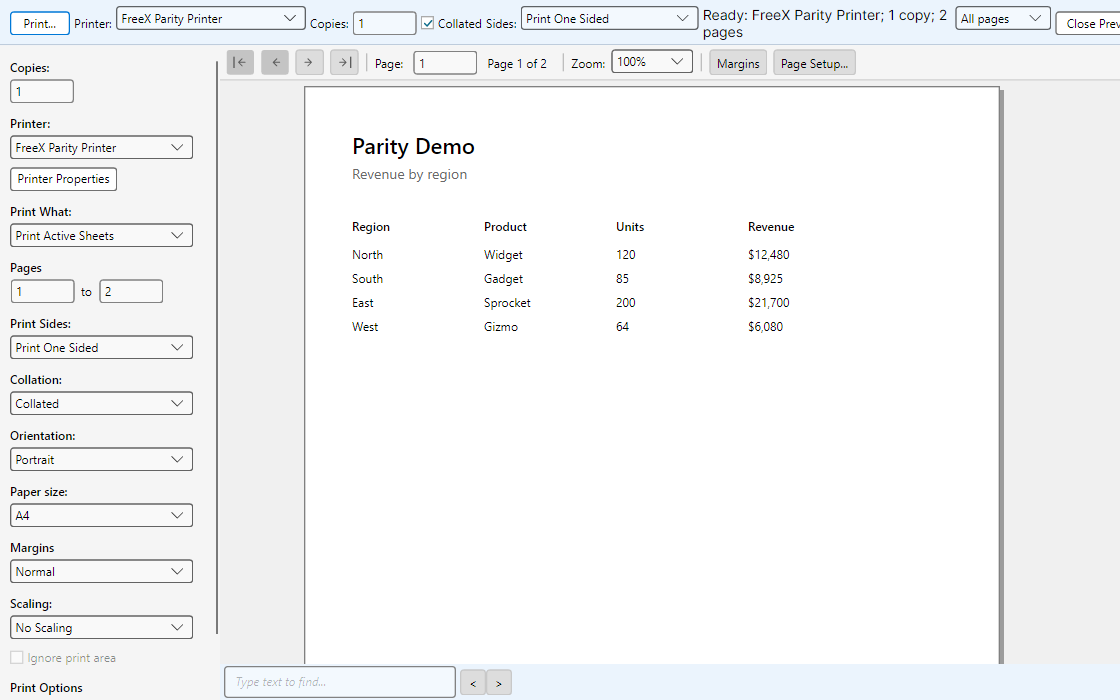
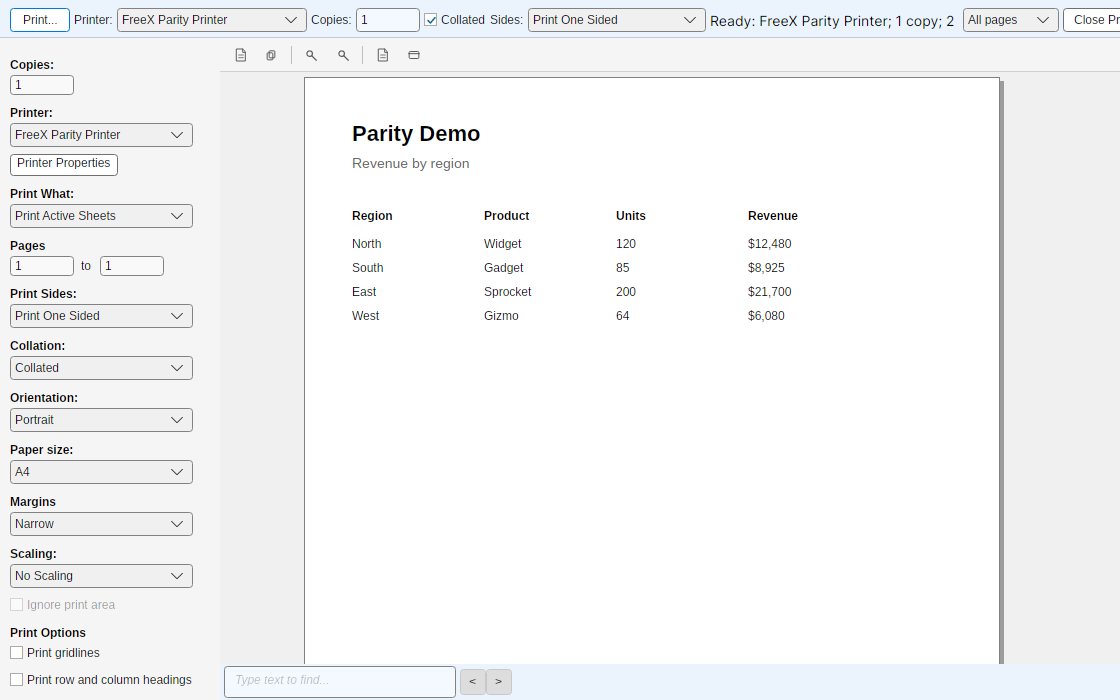
Align Avalonia Print Preview with WPF

diff --git a/src/FreeX.App.Avalonia/MainWindow.PrintPreview.cs b/src/FreeX.App.Avalonia/MainWindow.PrintPreview.cs
@@ -195,6 +195,7 @@ public sealed partial class MainWindow
             Margin = new Thickness(4, 0),
             VerticalContentAlignment = AvaloniaVerticalAlignment.Center,
         };
+        ApplyPreviewTextBoxChrome(pageNumberBox);
 
         var pageStatusText = new TextBlock
         {
@@ -204,7 +205,8 @@ public sealed partial class MainWindow
             VerticalAlignment = AvaloniaVerticalAlignment.Center,
             Margin = new Thickness(0, 0, 8, 0),
         };
-        AutomationProperties.SetAutomationId(pageStatusText, PrintPreviewDialogPlanner.PageLabelAutomationId);
+        AutomationProperties.SetAutomationId(pageNumberBox, PrintPreviewDialogPlanner.PageNumberBoxAutomationId);
+        AutomationProperties.SetAutomationId(pageStatusText, PrintPreviewDialogPlanner.PageStatusTextAutomationId);
 
         var firstButton = CreatePreviewToolbarButton(documentToolbarPlan.NavigationButtons[0]);
         var prevButton = CreatePreviewToolbarButton(documentToolbarPlan.NavigationButtons[1]);
@@ -335,8 +337,11 @@ public sealed partial class MainWindow
             PrintPreviewSurfacePlanner.CreateFindBarPlan(PrintPreviewSettingsTextResolver));
         var settingsRail = CreatePrintPreviewSettingsRail(
             PrintPreviewSurfacePlanner.CreateSettingsRailPlan(
-                _session.ActiveSheet,
-                pageCount,
+                // WPF's canonical parity dialog is constructed without a live sheet, so its rail
+                // starts from the shared default state (Narrow margins and 1..1 page fields). Keep
+                // normal production previews sheet-backed while making the shared fixture honest.
+                parityPages is null ? _session.ActiveSheet : null,
+                parityPages is null ? pageCount : 1,
                 printerName,
                 new PrintPreviewSettings(),
                 hasSelection: false,
@@ -432,7 +437,9 @@ public sealed partial class MainWindow
 
         return new Border
         {
+            Height = 38,
             MinHeight = 38,
+            MaxHeight = 38,
             Background = Brush(235, 244, 253),
             BorderBrush = Brush(190, 204, 220),
             BorderThickness = new Thickness(0, 0, 0, 1),
@@ -444,8 +451,8 @@ public sealed partial class MainWindow
     {
         var panel = new StackPanel
         {
-            Spacing = 8,
-            Margin = new Thickness(10),
+            Spacing = PrintPreviewSurfacePlanner.SettingsRailSpacing,
+            Margin = new Thickness(10, PrintPreviewSurfacePlanner.SettingsRailTopMargin, 10, 10),
             Children =
             {
                 CreateSettingsSection(plan.CopiesSectionText),
@@ -453,9 +460,9 @@ public sealed partial class MainWindow
                 {
                     Text = plan.CopiesText,
                     Width = plan.CopiesBoxWidth,
-                    Height = 24,
-                    MinHeight = 24,
-                    MaxHeight = 24,
+                    Height = PrintPreviewSurfacePlanner.SettingsTextBoxHeight,
+                    MinHeight = PrintPreviewSurfacePlanner.SettingsTextBoxHeight,
+                    MaxHeight = PrintPreviewSurfacePlanner.SettingsTextBoxHeight,
                     Padding = new Thickness(4, 1),
                     FontSize = 12,
                     FontFamily = FormulaBarFontFamily,
@@ -469,9 +476,9 @@ public sealed partial class MainWindow
                 new Button
                 {
                     Content = plan.PrinterPropertiesButtonText,
-                    Height = 24,
-                    MinHeight = 24,
-                    MaxHeight = 24,
+                    Height = PrintPreviewSurfacePlanner.SettingsButtonHeight,
+                    MinHeight = PrintPreviewSurfacePlanner.SettingsButtonHeight,
+                    MaxHeight = PrintPreviewSurfacePlanner.SettingsButtonHeight,
                     Padding = new Thickness(6, 1),
                     Background = Brushes.White,
                     BorderBrush = Brush(112, 112, 112),
@@ -522,9 +529,9 @@ public sealed partial class MainWindow
         {
             Text = plan.FromPageText,
             Width = plan.PageBoxWidth,
-            Height = 24,
-            MinHeight = 24,
-            MaxHeight = 24,
+            Height = PrintPreviewSurfacePlanner.SettingsTextBoxHeight,
+            MinHeight = PrintPreviewSurfacePlanner.SettingsTextBoxHeight,
+            MaxHeight = PrintPreviewSurfacePlanner.SettingsTextBoxHeight,
             Padding = new Thickness(4, 1),
             FontSize = 12,
             FontFamily = FormulaBarFontFamily,
@@ -537,9 +544,9 @@ public sealed partial class MainWindow
         {
             Text = plan.ToPageText,
             Width = plan.PageBoxWidth,
-            Height = 24,
-            MinHeight = 24,
-            MaxHeight = 24,
+            Height = PrintPreviewSurfacePlanner.SettingsTextBoxHeight,
+            MinHeight = PrintPreviewSurfacePlanner.SettingsTextBoxHeight,
+            MaxHeight = PrintPreviewSurfacePlanner.SettingsTextBoxHeight,
             Padding = new Thickness(4, 1),
             FontSize = 12,
             FontFamily = FormulaBarFontFamily,
@@ -622,49 +629,100 @@ public sealed partial class MainWindow
         TextBox pageNumberBox,
         TextBlock pageStatusText)
     {
+        var chrome = PrintPreviewSurfacePlanner.DocumentToolbarChrome;
         var toolbar = new StackPanel
         {
             Orientation = Orientation.Horizontal,
-            Spacing = 6,
-            Margin = new Thickness(6, 4),
+            Spacing = chrome.ButtonSpacing,
+            Margin = new Thickness(chrome.LeftPadding, 4, 0, 4),
+            Children =
+            {
+                CreateDocumentToolbarIcon(RibbonCommandIconKind.Print, "Print preview", chrome),
+                CreateDocumentToolbarIcon(RibbonCommandIconKind.Copy, "Copy", chrome),
+                CreateDocumentToolbarSeparator(chrome),
+                CreateDocumentToolbarIcon(RibbonCommandIconKind.Zoom, "Zoom in", chrome),
+                CreateDocumentToolbarIcon(RibbonCommandIconKind.Zoom, "Zoom out", chrome),
+                CreateDocumentToolbarSeparator(chrome),
+                CreateDocumentToolbarIcon(RibbonCommandIconKind.Page, "Fit page", chrome),
+                CreateDocumentToolbarIcon(RibbonCommandIconKind.View, "Fit width", chrome),
+            },
+        };
+
+        // Keep the planner-backed controls in the visual tree for keyboard navigation and automation.
+        // WPF's native DocumentViewer places these commands in its command surface rather than showing
+        // the textual controls here; the compact icon row above is the faithful Avalonia equivalent.
+        var functionalControls = new StackPanel
+        {
+            Orientation = Orientation.Horizontal,
+            IsVisible = false,
             Children =
             {
                 firstButton,
                 prevButton,
                 nextButton,
                 lastButton,
-                CreatePreviewToolbarSeparator(),
-                new TextBlock { Text = plan.PageLabelText, FontSize = 12, FontFamily = FormulaBarFontFamily, VerticalAlignment = AvaloniaVerticalAlignment.Center },
+                new TextBlock { Text = plan.PageLabelText },
                 pageNumberBox,
                 pageStatusText,
-                CreatePreviewToolbarSeparator(),
-                new TextBlock { Text = plan.ZoomLabelText, FontSize = 12, FontFamily = FormulaBarFontFamily, VerticalAlignment = AvaloniaVerticalAlignment.Center },
                 CreatePreviewZoomComboBox(plan),
-                CreatePreviewToolbarSeparator(),
                 CreatePreviewToolbarButton(plan.MarginsButtonText),
                 CreatePreviewToolbarButton(plan.PageSetupButtonText),
             },
         };
 
+        var content = new Grid
+        {
+            ColumnDefinitions = new ColumnDefinitions("*,0"),
+        };
+        content.Children.Add(toolbar);
+        Grid.SetColumn(functionalControls, 1);
+        content.Children.Add(functionalControls);
+
         return new Border
         {
-            MinHeight = 34,
+            Height = chrome.Height,
+            MinHeight = chrome.Height,
+            MaxHeight = chrome.Height,
             Background = Brush(245, 245, 245),
             BorderBrush = Brush(208, 208, 208),
             BorderThickness = new Thickness(0, 0, 0, 1),
-            Child = toolbar,
+            Child = content,
         };
     }
 
-    private static Border CreatePreviewToolbarSeparator() =>
+    private static Border CreateDocumentToolbarSeparator(PrintPreviewDocumentToolbarChromePlan chrome) =>
         new()
         {
             Width = 1,
-            Height = 18,
+            Height = chrome.SeparatorHeight,
             Background = Brush(190, 190, 190),
             Margin = new Thickness(1, 0),
             VerticalAlignment = AvaloniaVerticalAlignment.Center,
         };
+
+    private static Button CreateDocumentToolbarIcon(
+        RibbonCommandIconKind kind,
+        string toolTip,
+        PrintPreviewDocumentToolbarChromePlan chrome)
+    {
+        var button = new Button
+        {
+            Width = chrome.ButtonWidth,
+            MinWidth = chrome.ButtonWidth,
+            Height = chrome.ButtonHeight,
+            MinHeight = chrome.ButtonHeight,
+            MaxHeight = chrome.ButtonHeight,
+            Padding = new Thickness(4, 2),
+            Background = Brushes.Transparent,
+            BorderBrush = Brushes.Transparent,
+            BorderThickness = new Thickness(1),
+            HorizontalContentAlignment = AvaloniaHorizontalAlignment.Center,
+            VerticalContentAlignment = AvaloniaVerticalAlignment.Center,
+            Content = AvaloniaRibbonIcons.BuildMonochrome(kind, chrome.IconSize, null, Brush(92, 92, 92)),
+        };
+        ToolTip.SetTip(button, toolTip);
+        return button;
+    }
 
     private static Button CreatePreviewToolbarButton(string text) =>
         ApplyPreviewToolbarButtonChrome(new Button { Content = text }, 26);
@@ -712,7 +770,7 @@ public sealed partial class MainWindow
     }
 
     private static ComboBox CreatePreviewComboBox(double width, string selectedText) =>
-        new()
+        ApplyPreviewComboBoxChrome(new()
         {
             Width = width,
             Height = 24,
@@ -724,7 +782,7 @@ public sealed partial class MainWindow
             VerticalContentAlignment = AvaloniaVerticalAlignment.Center,
             ItemsSource = new[] { selectedText },
             SelectedIndex = 0,
-        };
+        });
 
     private static ComboBox CreatePreviewChoiceComboBox<TValue>(
         double width,
@@ -752,7 +810,7 @@ public sealed partial class MainWindow
             plan.ZoomSelectedIndex);
 
     private static ComboBox CreatePreviewComboBox(double width, IReadOnlyList<object> items, int selectedIndex) =>
-        new()
+        ApplyPreviewComboBoxChrome(new()
         {
             Width = width,
             Height = 24,
@@ -764,7 +822,19 @@ public sealed partial class MainWindow
             VerticalContentAlignment = AvaloniaVerticalAlignment.Center,
             ItemsSource = items,
             SelectedIndex = selectedIndex,
-        };
+        });
+
+    private static TextBox ApplyPreviewTextBoxChrome(TextBox textBox)
+    {
+        AvaloniaCompactDialogChrome.ApplyTextBox(textBox, PrintPreviewChromeStyle);
+        return textBox;
+    }
+
+    private static ComboBox ApplyPreviewComboBoxChrome(ComboBox comboBox)
+    {
+        AvaloniaCompactDialogChrome.ApplyComboBox(comboBox, PrintPreviewChromeStyle);
+        return comboBox;
+    }
 
     private static Control BuildPreviewDocumentViewerSurface(
         PrintPreviewPaginationContext context,

diff --git a/src/FreeX.App.Presentation/PageLayout/PrintPreviewSurfacePlanner.cs b/src/FreeX.App.Presentation/PageLayout/PrintPreviewSurfacePlanner.cs
@@ -39,6 +39,15 @@ public sealed record PrintPreviewDocumentToolbarPlan(
     string MarginsButtonText,
     string PageSetupButtonText);
 
+public sealed record PrintPreviewDocumentToolbarChromePlan(
+    double Height,
+    double ButtonWidth,
+    double ButtonHeight,
+    double IconSize,
+    double LeftPadding,
+    double ButtonSpacing,
+    double SeparatorHeight);
+
 public sealed record PrintPreviewFindBarPlan(
     string PlaceholderText,
     string PreviousButtonText,
@@ -86,6 +95,23 @@ public static class PrintPreviewSurfacePlanner
     public const double SettingsCopiesBoxWidth = 60;
     public const double SettingsPageRangeBoxWidth = 44;
     public const double DocumentZoomComboWidth = 82;
+    public const double SettingsTextBoxHeight = 20;
+    public const double SettingsButtonHeight = 22;
+    public const double SettingsRailTopMargin = 16;
+    public const double SettingsRailSpacing = 7;
+
+    // WPF's DocumentViewer contributes a compact icon-only toolbar between the print controls and
+    // the paper. Keep these metrics in the shared surface planner so Avalonia's replacement chrome
+    // remains tied to the same cross-shell contract rather than becoming a capture-only adjustment.
+    public static PrintPreviewDocumentToolbarChromePlan DocumentToolbarChrome { get; } =
+        new(
+            Height: 34,
+            ButtonWidth: 28,
+            ButtonHeight: 26,
+            IconSize: 16,
+            LeftPadding: 6,
+            ButtonSpacing: 4,
+            SeparatorHeight: 18);
 
     public static PrintPreviewTopToolbarPlan CreateTopToolbarPlan(
         int totalPages,

diff --git a/tests/FreeX.App.Presentation.Tests/PageLayout/PrintPreviewSurfacePlannerTests.cs b/tests/FreeX.App.Presentation.Tests/PageLayout/PrintPreviewSurfacePlannerTests.cs
@@ -64,6 +64,24 @@ public sealed class PrintPreviewSurfacePlannerTests
     }
 
     [Fact]
+    public void DocumentToolbarChrome_UsesSharedWpfDocumentViewerMetrics()
+    {
+        var chrome = PrintPreviewSurfacePlanner.DocumentToolbarChrome;
+
+        chrome.Height.Should().Be(34);
+        chrome.ButtonWidth.Should().Be(28);
+        chrome.ButtonHeight.Should().Be(26);
+        chrome.IconSize.Should().Be(16);
+        chrome.LeftPadding.Should().Be(6);
+        chrome.ButtonSpacing.Should().Be(4);
+        chrome.SeparatorHeight.Should().Be(18);
+        PrintPreviewSurfacePlanner.SettingsTextBoxHeight.Should().Be(20);
+        PrintPreviewSurfacePlanner.SettingsButtonHeight.Should().Be(22);
+        PrintPreviewSurfacePlanner.SettingsRailTopMargin.Should().Be(16);
+        PrintPreviewSurfacePlanner.SettingsRailSpacing.Should().Be(7);
+    }
+
+    [Fact]
     public void CreateSettingsRailPlan_OwnsRailLabelsMetricsAndPanelOptions()
     {
         var sheet = new Workbook("Book1").AddSheet("Sheet1");

diff --git a/tests/FreeX.App.Avalonia.Tests/AvaloniaPrintPreviewSourceTests.cs b/tests/FreeX.App.Avalonia.Tests/AvaloniaPrintPreviewSourceTests.cs
@@ -36,6 +36,9 @@ public sealed class AvaloniaPrintPreviewSourceTests
         source.Should().Contain("IReadOnlyList<PrintPreviewParityPage>? parityPages = null");
         source.Should().Contain("BuildPreviewParityPageView(parityPages[pageIndex])");
         source.Should().Contain("AvaloniaRibbonIcons.BuildMonochrome");
+        source.Should().Contain("PrintPreviewSurfacePlanner.DocumentToolbarChrome");
+        source.Should().Contain("CreateDocumentToolbarIcon(RibbonCommandIconKind.Print");
+        source.Should().Contain("IsVisible = false");
 
         source.Should().NotContain("PrintPreviewText(\"PrintPreview_PrintWhatActiveSheets\"");
         source.Should().NotContain("PrintPreviewText(\"PrintPreview_SidesOneSided\"");

diff --git a/docs/parity/dialog-visual-evidence-summary.md b/docs/parity/dialog-visual-evidence-summary.md
@@ -62,7 +62,7 @@ Outliers are ranked by a deterministic triage score: normalized 32x32 ARGB sampl
 
 | Surface id | WPF logical size | Avalonia logical size | Raw PNG sizes | Bucket | Evidence flag | Score | Sample delta | Luma delta | Non-bg delta |
 | --- | ---: | ---: | --- | --- | --- | ---: | ---: | ---: | ---: |
-| dialog.PrintPreview | 1120x700 | 1120x700 | 1120x700 px @ 96 DPI vs 1120x700 px @ 96 DPI |  |  | 0.171 | 0.036 | 0.001 | 0.133 |
+| dialog.PrintPreview | 1120x700 | 1120x700 | 1120x700 px @ 96 DPI vs 1120x700 px @ 96 DPI |  |  | 0.157 | 0.025 | 0.003 | 0.129 |
 | dialog.Subtotal | 380x390 | 380x390 | 380x390 px @ 96 DPI vs 380x390 px @ 96 DPI |  |  | 0.142 | 0.026 | 0.011 | 0.105 |
 | dialog.Options.QuickAccessToolbar | 744.301x521 | 744x521 | 744x521 px @ 96 DPI vs 744x521 px @ 96 DPI |  |  | 0.132 | 0.027 | 0.004 | 0.100 |
 | dialog.PivotTableOptions.Data | 520x500 | 520x500 | 520x500 px @ 96 DPI vs 520x500 px @ 96 DPI |  |  | 0.125 | 0.035 | 0.015 | 0.074 |
@@ -161,7 +161,7 @@ These rows have a DPI-normalized checked-in PNG size that disagrees with the dia
 | dialog.PivotValueFieldSettings.NumberFormat | dialog.PivotValueFieldSettings.NumberFormat.png | 430x430 | 430x430 px @ 96 DPI | True | dialog.PivotValueFieldSettings.NumberFormat.png | 430x430 | 430x430 px @ 96 DPI | True | True | 0.034 |
 | dialog.PivotValueFieldSettings.ShowValuesAs | dialog.PivotValueFieldSettings.ShowValuesAs.png | 430x430 | 430x430 px @ 96 DPI | True | dialog.PivotValueFieldSettings.ShowValuesAs.png | 430x430 | 430x430 px @ 96 DPI | True | True | 0.032 |
 | dialog.PivotValueFieldSettings.SummarizeValuesBy | dialog.PivotValueFieldSettings.SummarizeValuesBy.png | 430x430 | 430x430 px @ 96 DPI | True | dialog.PivotValueFieldSettings.SummarizeValuesBy.png | 430x430 | 430x430 px @ 96 DPI | True | True | 0.030 |
-| dialog.PrintPreview | dialog.PrintPreview.png | 1120x700 | 1120x700 px @ 96 DPI | True | dialog.PrintPreview.png | 1120x700 | 1120x700 px @ 96 DPI | True | True | 0.171 |
+| dialog.PrintPreview | dialog.PrintPreview.png | 1120x700 | 1120x700 px @ 96 DPI | True | dialog.PrintPreview.png | 1120x700 | 1120x700 px @ 96 DPI | True | True | 0.157 |
 | dialog.ProtectSheet | dialog.ProtectSheet.png | 430x540 | 645x810 px @ 144 DPI | True | dialog.ProtectSheet.png | 430x540 | 430x540 px @ 96 DPI | True | True | 0.045 |
 | dialog.ProtectWorkbook | dialog.ProtectWorkbook.png | 380x250 | 380x250 px @ 96 DPI | True | dialog.ProtectWorkbook.png | 380x250 | 380x250 px @ 96 DPI | True | True | 0.042 |
 | dialog.RecommendedPivotTables | dialog.RecommendedPivotTables.png | 560x340 | 840x510 px @ 144 DPI | True | dialog.RecommendedPivotTables.png | 560x340 | 560x340 px @ 96 DPI | True | True | 0.044 |
